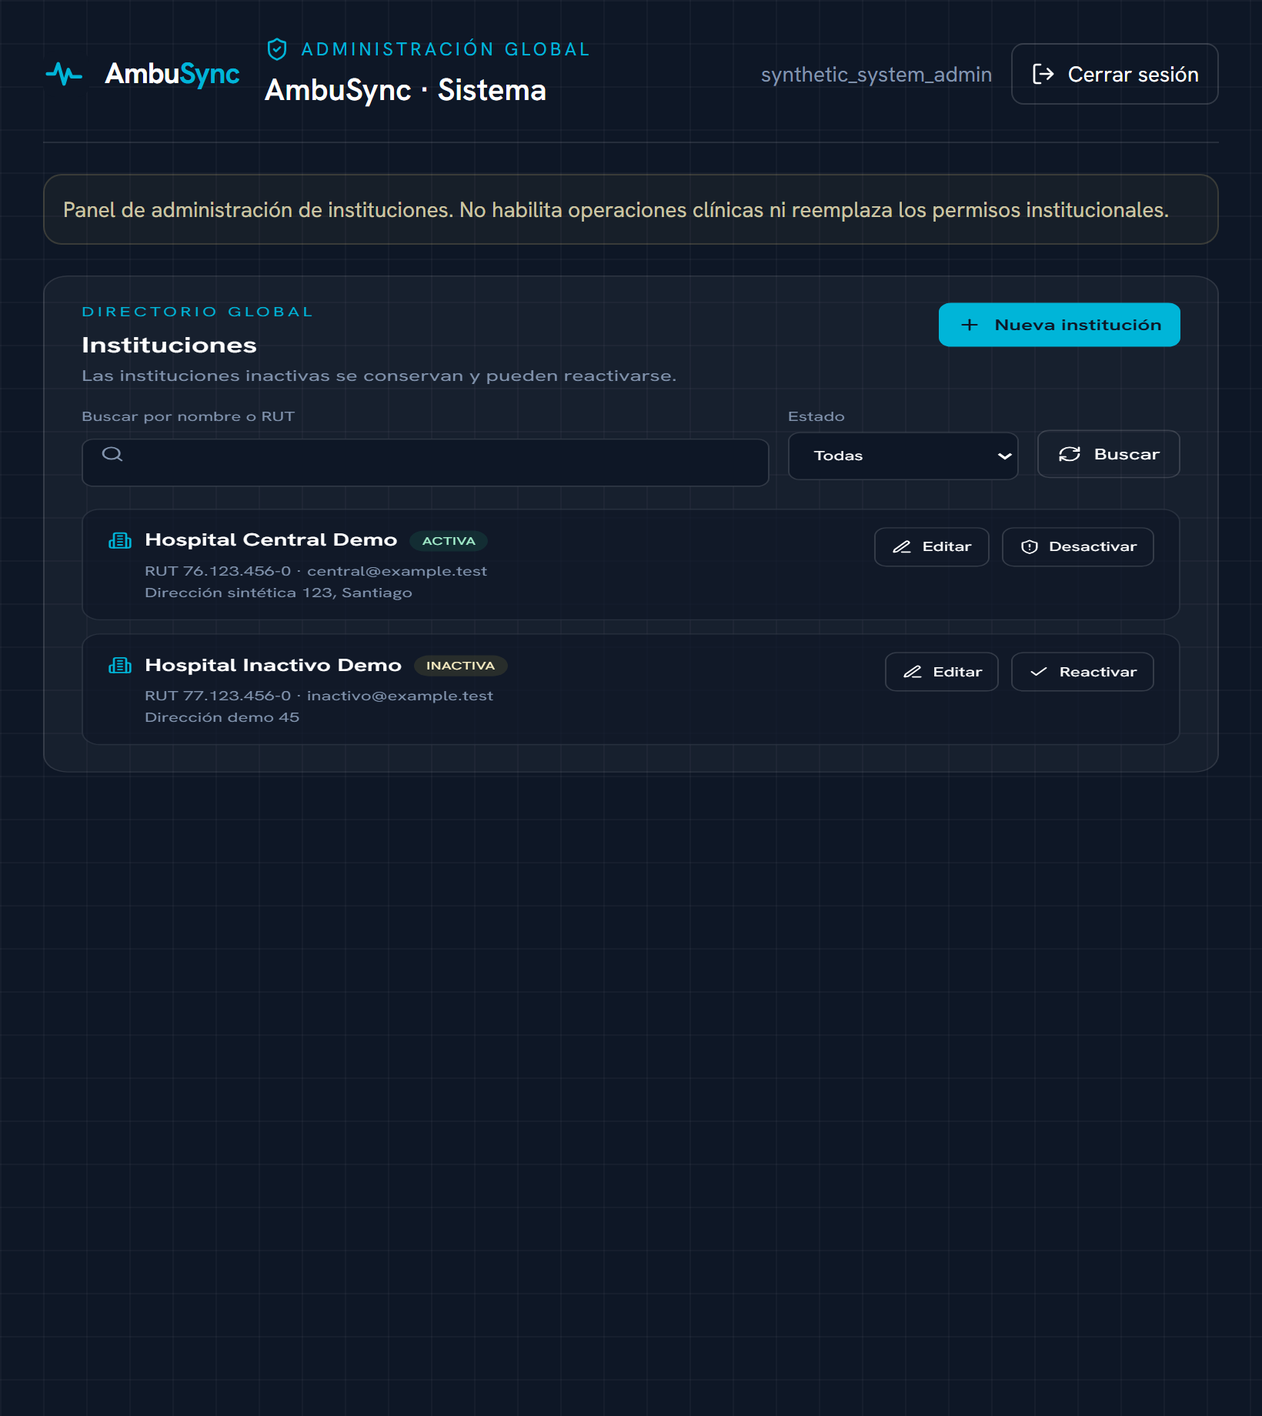
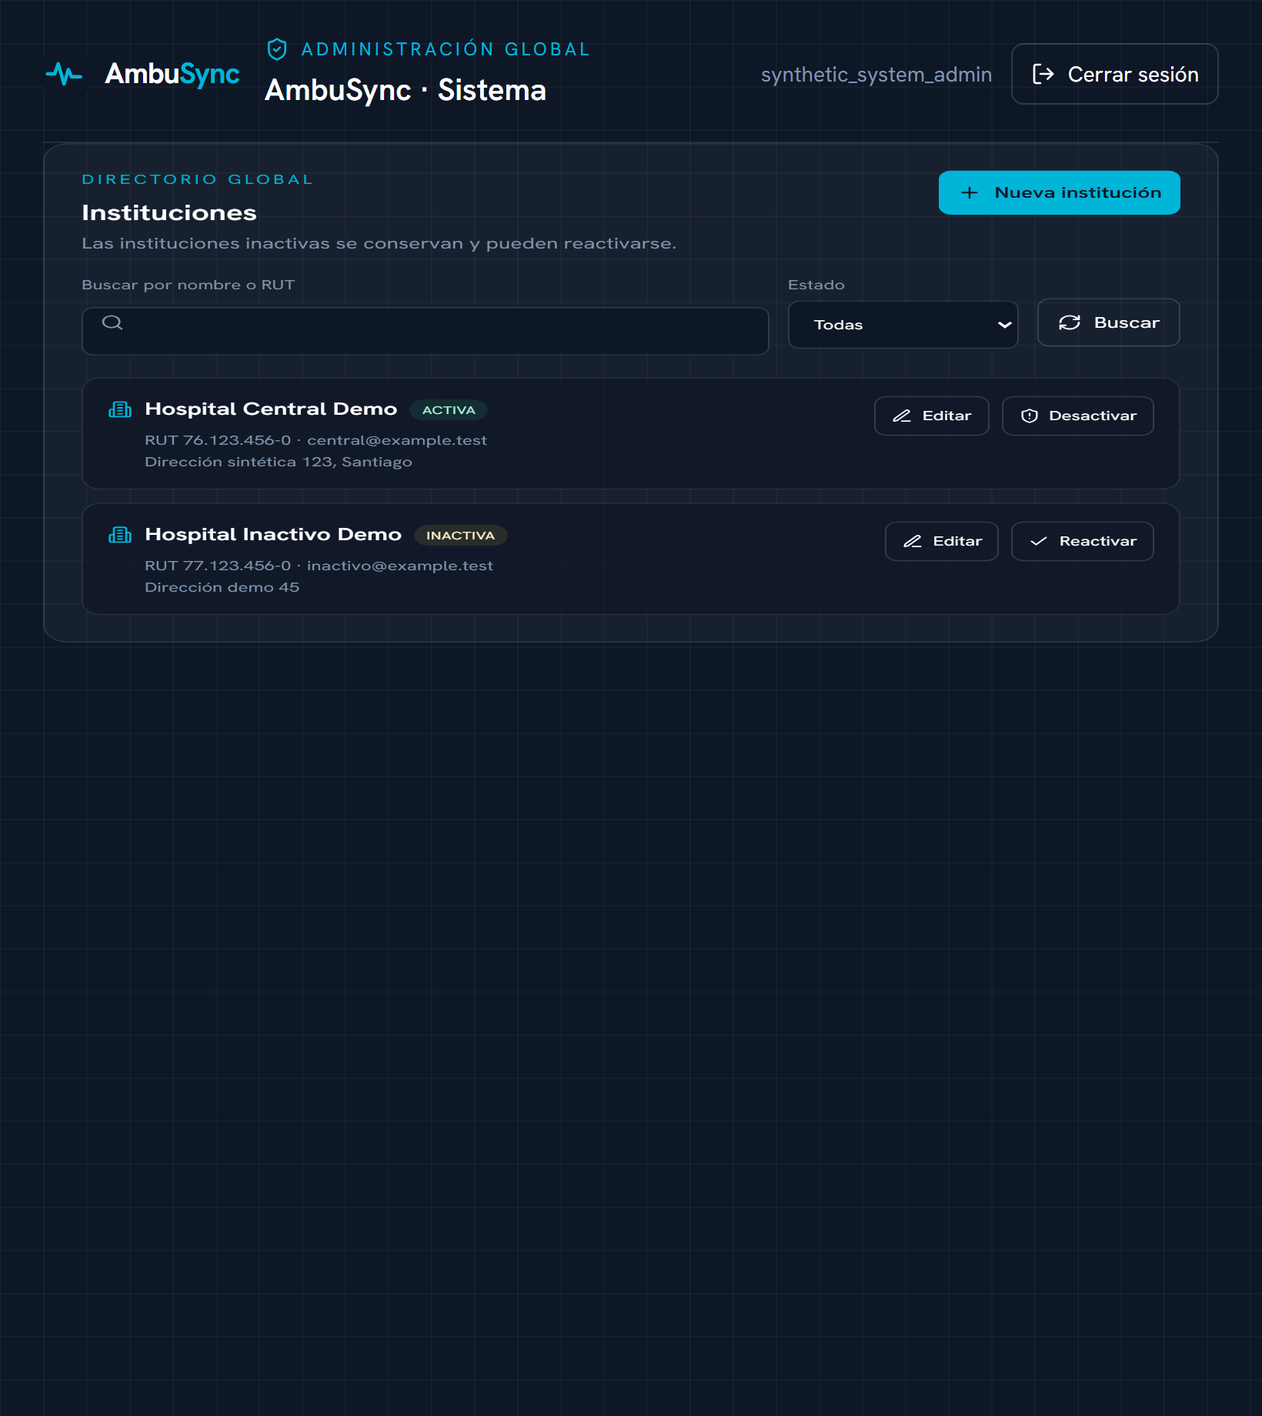
fix: scope new institutions to their own units

diff --git a/frontend/src/screens/system/SystemAdminPortal.tsx b/frontend/src/screens/system/SystemAdminPortal.tsx
@@ -67,9 +67,6 @@ export function SystemAdminPortal() {
             </button>
           </div>
         </header>
-        <p className="my-5 rounded-xl border border-amber-200/15 bg-amber-200/[0.04] p-3 text-sm text-amber-100/80">
-          Panel de administración de instituciones. No habilita operaciones clínicas ni reemplaza los permisos institucionales.
-        </p>
         {error ? <p role="alert" className="mb-5 rounded-lg border border-rose-300/20 bg-rose-300/10 p-3 text-sm text-rose-100">{error}</p> : null}
         {!error ? <SystemInstitutionsPanel /> : null}
       </div>

diff --git a/backend/institutions/tests_system_management.py b/backend/institutions/tests_system_management.py
@@ -12,7 +12,7 @@ from rest_framework.test import APIClient
 from accounts.models import AccountActivation, User
 from audit.models import AuditEvent
 from emergencies.models import Emergency
-from institutions.models import Ambulance, Institution, InstitutionMembership
+from institutions.models import Ambulance, AmbulanceAssignment, Institution, InstitutionMembership
 from institutions.rut import format_company_rut, normalize_company_rut
 
 
@@ -57,7 +57,7 @@ class SystemInstitutionManagementTests(TestCase):
         self.assertEqual(response.status_code, 201, response.content)
         institution = Institution.objects.get(rut=self.institution_payload()["rut"])
         user = User.objects.get(username="synthetic-first-urgencias")
-        self.assertEqual(institution.kind, Institution.Kind.RECEIVER)
+        self.assertEqual(institution.kind, Institution.Kind.COMBINED)
         self.assertTrue(institution.enabled)
         self.assertFalse(user.is_active)
         self.assertFalse(user.has_usable_password())
@@ -116,6 +116,14 @@ class SystemInstitutionManagementTests(TestCase):
             )
             self.assertEqual(response.status_code, 400, invalid)
             self.assertFalse(Institution.objects.exists(), invalid)
+
+        invalid_rut = self.client.post(
+            "/api/v1/system/institutions/",
+            self.institution_payload(rut="76.125.185-9"),
+            format="json",
+        )
+        self.assertEqual(invalid_rut.status_code, 400)
+        self.assertEqual(invalid_rut.json()["fields"]["rut"], "El RUT está equivocado.")
 
         created = self.client.post(
             "/api/v1/system/institutions/", self.institution_payload(), format="json"
@@ -340,3 +348,78 @@ class SystemInstitutionManagementTests(TestCase):
         current = login_client.get("/api/v1/auth/me/").json()
         self.assertEqual(set(current["groups"]), {"urgencias", "institution_admin"})
         self.assertEqual(current["institutions"][0]["name"], "Hospital Nuevo Demo")
+
+    def test_new_combined_institution_sees_and_manages_only_its_own_units(self):
+        response = self.client.post(
+            "/api/v1/system/institutions/", self.institution_payload(), format="json"
+        )
+        self.assertEqual(response.status_code, 201, response.content)
+        institution = Institution.objects.get(pk=response.json()["id"])
+        admin = User.objects.get(username="synthetic-first-urgencias")
+        admin.is_active = True
+        admin.save(update_fields=["is_active"])
+        own_unit = Ambulance.objects.create(institution=institution, code="OWN-01")
+        other_institution = Institution.objects.create(
+            name="Otra Institución Operadora Demo", kind=Institution.Kind.COMBINED
+        )
+        other_unit = Ambulance.objects.create(institution=other_institution, code="OTHER-01")
+
+        admin_client = APIClient()
+        admin_client.force_authenticate(admin)
+        config = admin_client.get("/api/v1/institutions/management/config/").json()
+        listed_units = admin_client.get("/api/v1/institutions/management/ambulances/").json()
+
+        self.assertEqual(
+            config["operator_institutions"], [{"id": str(institution.pk), "name": institution.name}]
+        )
+        self.assertEqual([unit["id"] for unit in listed_units], [str(own_unit.pk)])
+        self.assertNotIn(str(other_unit.pk), {unit["id"] for unit in listed_units})
+
+        own_created = admin_client.post(
+            "/api/v1/institutions/management/ambulances/create/",
+            {"institution_id": str(institution.pk), "code": "OWN-02"},
+            format="json",
+        )
+        foreign_create = admin_client.post(
+            "/api/v1/institutions/management/ambulances/create/",
+            {"institution_id": str(other_institution.pk), "code": "OTHER-02"},
+            format="json",
+        )
+        self.assertEqual(own_created.status_code, 201, own_created.content)
+        self.assertEqual(foreign_create.status_code, 400)
+        self.assertFalse(
+            Ambulance.objects.filter(institution=other_institution, code="OTHER-02").exists()
+        )
+
+        foreign_account_create = admin_client.post(
+            "/api/v1/institutions/management/accounts/",
+            {
+                "username": "synthetic-foreign-ambulance",
+                "email": "foreign-ambulance@example.test",
+                "groups": ["ambulance"],
+                "institution_id": str(other_institution.pk),
+                "ambulance_id": str(other_unit.pk),
+            },
+            format="json",
+        )
+        self.assertEqual(foreign_account_create.status_code, 400)
+        self.assertFalse(User.objects.filter(username="synthetic-foreign-ambulance").exists())
+
+        ambulance_user = User.objects.create_user(
+            username="synthetic-owned-ambulance", password="Synthetic-Owned-Ambulance-26!"
+        )
+        ambulance_group, _ = Group.objects.get_or_create(name="ambulance")
+        ambulance_user.groups.add(ambulance_group)
+        InstitutionMembership.objects.create(user=ambulance_user, institution=institution)
+        AmbulanceAssignment.objects.create(user=ambulance_user, ambulance=own_unit)
+        foreign_reassignment = admin_client.post(
+            f"/api/v1/institutions/management/accounts/{ambulance_user.pk}/assignment/",
+            {"ambulance_id": str(other_unit.pk)},
+            format="json",
+        )
+        self.assertEqual(foreign_reassignment.status_code, 400)
+        self.assertTrue(
+            AmbulanceAssignment.objects.filter(
+                user=ambulance_user, ambulance=own_unit, active=True
+            ).exists()
+        )

diff --git a/backend/institutions/account_management.py b/backend/institutions/account_management.py
@@ -93,6 +93,8 @@ class ManagedAmbulanceListView(APIView):
             .select_related("institution")
             .order_by("institution__name", "code")
         )
+        if institution.kind == Institution.Kind.COMBINED:
+            ambulances = ambulances.filter(institution=institution)
         return Response(
             [
                 {
@@ -122,12 +124,15 @@ class AccountManagementConfigView(APIView):
         delegable_groups = ["urgencias", "ambulance"] if can_create_accounts else []
         operator_institutions = []
         if can_create_accounts:
+            operators = Institution.objects.filter(
+                enabled=True,
+                kind__in=(Institution.Kind.OPERATOR, Institution.Kind.COMBINED),
+            )
+            if institution.kind == Institution.Kind.COMBINED:
+                operators = operators.filter(pk=institution.pk)
             operator_institutions = [
                 {"id": str(operator.pk), "name": operator.name}
-                for operator in Institution.objects.filter(
-                    enabled=True,
-                    kind__in=(Institution.Kind.OPERATOR, Institution.Kind.COMBINED),
-                ).order_by("name", "id")
+                for operator in operators.order_by("name", "id")
             ]
         return Response(
             {
@@ -236,6 +241,13 @@ class ManagedAccountListCreateView(APIView):
             if target_institution is None:
                 raise ValidationError(
                     {"institution_id": "La institución operadora no está habilitada."}
+                )
+            if (
+                institution.kind == Institution.Kind.COMBINED
+                and target_institution.pk != institution.pk
+            ):
+                raise ValidationError(
+                    {"institution_id": "Solo puedes crear unidades para tu propia institución."}
                 )
         elif body.get("institution_id"):
             raise ValidationError(
@@ -459,6 +471,13 @@ class ManagedAmbulanceCreateView(APIView):
             raise ValidationError(
                 {"institution_id": "Selecciona una institución operadora habilitada."}
             )
+        if (
+            institution.kind == Institution.Kind.COMBINED
+            and target_institution.pk != institution.pk
+        ):
+            raise ValidationError(
+                {"institution_id": "Solo puedes crear unidades para tu propia institución."}
+            )
         code = request.data.get("code") if isinstance(request.data, dict) else None
         if not isinstance(code, str) or not code.strip() or len(code.strip()) > 40:
             raise ValidationError({"code": "Indica un código de unidad válido."})
@@ -508,6 +527,12 @@ class ManagedAccountAssignmentView(APIView):
             institution__enabled=True,
             enabled=True,
         ).first()
+        if (
+            institution.kind == Institution.Kind.COMBINED
+            and ambulance is not None
+            and ambulance.institution_id != institution.pk
+        ):
+            ambulance = None
         if ambulance is None:
             raise ValidationError(
                 {"ambulance_id": "La unidad no pertenece a tu institución o no está habilitada."}

diff --git a/backend/institutions/system_management.py b/backend/institutions/system_management.py
@@ -71,7 +71,7 @@ def validate_institution_fields(data, *, creating=False):
     if creating or "rut" in data:
         rut_result = normalize_company_rut(raw_rut) if isinstance(raw_rut, str) else None
         if rut_result is None:
-            errors["rut"] = "Indica un RUT empresa válido entre 76.000.000 y 79.999.999."
+            errors["rut"] = "El RUT está equivocado."
         else:
             values["rut_normalized"], values["rut"] = rut_result
 
@@ -206,7 +206,7 @@ class SystemInstitutionListCreateView(APIView):
             with transaction.atomic():
                 institution = Institution.objects.create(
                     name=values["name"],
-                    kind=Institution.Kind.RECEIVER,
+                    kind=Institution.Kind.COMBINED,
                     rut=values["rut"],
                     address=values["address"],
                     phone=values["phone"],

diff --git a/docs/ETAPA_1.md b/docs/ETAPA_1.md
@@ -14,11 +14,11 @@ Construir el flujo vertical local del piloto usando **Hospital Operador Demo**, 
 | 2. Contratos | Contrato HTTP del primer slice en `backend/openapi.json`, validación y permisos en DRF; D-005 a D-014 siguen siendo la autoridad funcional. | La PR #5 está integrada en `main`. La suite llegó a 59 pruebas backend (1 omitida) en la última ejecución local registrada; incluye autenticación, emergencias, aislamiento, auditoría e idempotencia/concurrencia. Los contratos de operaciones futuras continúan pendientes. |
 | 3. Alcance | Implementados localmente sesión, permisos, auditoría, emergencias, vistas de ambulancia y Urgencias, y administración de cuentas/unidades. La administración de Urgencias tiene subpaneles para crear cuentas, consultar historial y crear unidades; permite asignar o cambiar unidad a cuentas de ambulancia. | Migraciones y pruebas usan PostgreSQL aislado. No es despliegue ni release. WebSocket, GPS, cambio de destino, recuperación de cuenta, informes y otros flujos aprobados siguen pendientes. |
 | 4. Entorno | Python 3.14.10 instalado. PostgreSQL 18.6 responde en clúster separado `127.0.0.1:55432`; base/rol `ambusync_dev`, secretos aleatorios en `backend/.env` ignorado por Git. Docker no está instalado. | Versión actualizada y migraciones/pruebas comprobadas. Reproducir arranque con las rutas documentadas; no usar el servicio preexistente en `5432`. |
-| 5. Administración global | D-015: rol `system_admin` exclusivo, sin membresía institucional ni permisos clínicos; comando local para aprovisionarlo. El panel crea Receptoras y la primera cuenta Urgencias con administración institucional. | Lista instituciones, edita datos, conserva bajas lógicas y permite reactivar. Desactivación bloquea login y revoca sesiones; se impide si la institución está vinculada como origen/destino a episodios no terminales. Pruebas sintéticas en curso. |
+| 5. Administración global | D-015: rol `system_admin` exclusivo, sin membresía institucional ni permisos clínicos; comando local para aprovisionarlo. El panel crea instituciones Operadora y Receptora (`combined`) y la primera cuenta Urgencias con administración institucional. | Lista instituciones, edita datos, conserva bajas lógicas y permite reactivar. Desactivación bloquea login y revoca sesiones; se impide si la institución está vinculada como origen/destino a episodios no terminales. La institución combinada queda como operadora de sí misma y su administración ve/crea solo sus propias unidades. |
 
 El primer slice y las ampliaciones administrativas descritas sí están implementados localmente; la etapa 1 continúa abierta. Las pruebas frontend y backend se ejecutan localmente y también están configuradas en CI; un resultado local no sustituye la verificación de cada ejecución remota. No se desplegó servicio de aplicación. La base local contiene cuentas y datos sintéticos; no borrar sus datos automáticamente.
 
-La administración global está separada de `/local`: el inicio de sesión lleva `system_admin` exclusivamente a `/sistema`. El alta institucional fija tipo Receptora, valida RUT empresa chileno (76.000.000–79.999.999, dígito módulo 11), nombre, dirección, teléfono opcional y correo único. En la misma transacción crea la cuenta pendiente de Urgencias, grupos `urgencias` + `institution_admin`, membresía y activación de 24 horas por correo local. Un fallo de entrega revierte toda la creación. `system_admin` se crea con `create_system_admin <usuario> <correo>`; no se utiliza Django `is_staff`/`is_superuser` ni hay registro web.
+La administración global está separada de `/local`: el inicio de sesión lleva `system_admin` exclusivamente a `/sistema`. El alta institucional crea tipo Operadora y Receptora (`combined`), valida RUT empresa chileno (76.000.000–79.999.999, dígito módulo 11), nombre, dirección, teléfono opcional y correo único. La institución queda automáticamente como su propia operadora; su administración Urgencias crea y ve unidades únicamente dentro de ella, no las de otros hospitales. En la misma transacción se crea la cuenta pendiente de Urgencias, grupos `urgencias` + `institution_admin`, membresía y activación de 24 horas por correo local. Un fallo de entrega revierte toda la creación. `system_admin` se crea con `create_system_admin <usuario> <correo>`; no se utiliza Django `is_staff`/`is_superuser` ni hay registro web.
 
 ## Stack bajo evaluación local
 
@@ -122,7 +122,7 @@ El desarrollo usa SMTP local de Mailpit en `127.0.0.1:1025` (configurable con `E
   ```
 
 - El login la dirige a `/sistema`. La API global vive bajo `/api/v1/system/institutions/`; sus endpoints exigen sesión, CSRF en mutaciones y rol global exclusivo. El listado incluye activas/inactivas y permite filtrar por estado/buscar por nombre o RUT.
-- El alta crea solo una institución Receptora y su primera cuenta de Urgencias con `institution_admin`. El correo institucional de contacto y el de activación son campos independientes, pueden coincidir y el correo institucional debe ser único. La cuenta queda pendiente hasta que defina contraseña desde su enlace de activación local de 24 horas. Institución, cuenta, grupos, membresía, activación y auditoría se crean en transacción; si falla SMTP, se revierte todo.
+- El alta crea una institución Operadora y Receptora (`combined`) y su primera cuenta de Urgencias con `institution_admin`. La institución es automáticamente su propia operadora: solo se listan, crean y asignan sus unidades en el panel; las instituciones combinadas no acceden a unidades de otras instituciones. El correo institucional de contacto y el de activación son campos independientes, pueden coincidir y el correo institucional debe ser único. La cuenta queda pendiente hasta que defina contraseña desde su enlace de activación local de 24 horas. Institución, cuenta, grupos, membresía, activación y auditoría se crean en transacción; si falla SMTP, se revierte todo.
 - RUT se presenta como `NN.NNN.NNN-D`, base entre 76.000.000 y 79.999.999 y dígito verificador módulo 11; la interfaz admite escribir la base de 8 dígitos y completa el verificador calculado tanto al crear como al editar, o avisa si el verificador ingresado no coincide. La API exige el formato completo, normaliza y evita duplicados. Nombre admite letras Unicode, números, espacios y guion (160); dirección 255; teléfono opcional 15 caracteres (`0-9`, `+`, espacios, paréntesis y guion); correo de formato válido, dominio libre y único.
 - La edición modifica nombre, RUT, dirección, teléfono o correo por campo; tipo y estado no se cambian en edición. La desactivación conserva institución, membresías, cuentas, unidades e historial, revoca sesiones y bloquea el login de miembros mientras la institución esté deshabilitada. Se rechaza si hay episodios no terminales en que figure como institución operadora o destino. Reactivar vuelve a permitir el login de cuentas que sigan activas; las sesiones anteriores no reviven.
 - Cada alta, edición, baja y reactivación registra evento de auditoría. El rol global no lista ni opera emergencias, no administra cuentas institucionales ya existentes fuera de la cuenta inicial y no adquiere permisos clínicos.

diff --git a/docs/ETAPA_0.md b/docs/ETAPA_0.md
@@ -26,7 +26,7 @@ Referencia: [diagnóstico del prototipo](ANALISIS_INICIAL.md) e Informe 2 aporta
 | D-012 | Tratamiento del formulario no enviado al vencer sesión aprobado el 29/10/2026 | Conservar solo en memoria para la misma cuenta; al reautenticar, comprobar identidad y permisos; no enviar automáticamente; descartar si cambia la cuenta; implementación/pruebas pendientes |
 | D-013 | Verificación administrativa de identidad para recuperar acceso al correo aprobada el 29/10/2026 | Contacto institucional previo registrado; anotar verificador, método, fecha y resultado; sin preguntas secretas ni cambio a correo no verificado; implementación/pruebas pendientes |
 | D-014 | Cambio de destino después de iniciado el traslado aprobado el 29/10/2026 | Operación atómica: cancelar episodio anterior y detener GPS; crear reemplazo con ID/contexto autorizado nuevos y seguimiento nuevo; conservar historial y no heredar acceso entre receptores; contratos exactos/pruebas pendientes |
-| D-015 | Administración global de instituciones aprobada el 10/11/2026 | Rol `system_admin` exclusivo, provisionado localmente, sin permisos clínicos ni membresía; gestiona instituciones Receptoras con baja lógica, auditoría y activación local de su primer administrador de Urgencias |
+| D-015 | Administración global de instituciones aprobada el 10/11/2026; alcance operativo ampliado el 10/11/2026 | Rol `system_admin` exclusivo, provisionado localmente, sin permisos clínicos ni membresía; crea instituciones Operadora y Receptora (`combined`) con su primer administrador de Urgencias; administra bajas lógicas y auditoría |
 
 D-002 modifica el diseño de cuentas por unidad del Informe 2. D-003 exige adaptar el campo de rol único del diccionario: proponer conjuntos de permisos/grupos, sin un booleano que conceda acceso total. Mantener trazabilidad de estas diferencias al actualizar el informe.
 
@@ -136,7 +136,7 @@ Esta es una condición de aceptación futura, no un resultado alcanzado. Los 20 
 ### Responsabilidades y permisos adicionales
 
 - **Administración institucional:** gestiona y desactiva cuentas/ambulancias propias, asigna y retira personal, restablece acceso por procedimiento controlado y consulta auditoría administrativa. No administra otras instituciones, no modifica episodios ni confirma llegadas/cierres sin el permiso funcional correspondiente.
-- **Administración global (`system_admin`):** rol exclusivo de los creadores, sin membresía institucional ni grupos operativos. Lista todas las instituciones, administra datos y estado, y crea Receptoras junto con su primer administrador de Urgencias. No consulta ni modifica episodios, cuentas institucionales ni datos clínicos. El rol se crea localmente por comando y no mediante registro web ni privilegio Django de superusuario.
+- **Administración global (`system_admin`):** rol exclusivo de los creadores, sin membresía institucional ni grupos operativos. Lista todas las instituciones, administra datos y estado, y crea instituciones Operadora y Receptora (`combined`) junto con su primer administrador de Urgencias. Cada nueva institución combinada opera sus propias unidades; su panel solo expone unidades de esa misma institución. No consulta ni modifica episodios, cuentas institucionales ni datos clínicos. El rol se crea localmente por comando y no mediante registro web ni privilegio Django de superusuario.
 - **Ambulancia:** crea episodios para su unidad asignada, actualiza antecedentes y agrega mediciones durante el traslado, registra posición/inicio y cancela antes de recepción con motivo. No suplanta unidades, no cambia directamente destino tras envío y no edita episodios cerrados/cancelados.
 - **Urgencias:** consulta antecedentes, mediciones y posición de episodios del destino; registra lectura, preparación, llegada y cierre. No sobrescribe mediciones del emisor ni cancela unilateralmente. Ante errores solicita corrección al operador; el procedimiento de contingencia se documentará en AS-003/AS-005.
 - **Informes:** permiso adicional al de urgencias para consultar histórico, filtros y resúmenes del destino autorizado.

diff --git a/README.md b/README.md
@@ -76,7 +76,8 @@ permite registrar la llegada desde la tarjeta y conserva un archivo filtrable.
 ### 4. Administración global de instituciones
 
 El rol global exclusivo de administración lista instituciones activas e inactivas, permite editar
-sus datos y conservarlas mediante baja lógica. El alta crea una institución Receptora y una primera
+sus datos y conservarlas mediante baja lógica. El alta crea una institución Operadora y Receptora
+que administra sus propias unidades, junto con una primera
 cuenta de Urgencias con administración institucional, pendiente de activar por correo local.
 
 <p align="center">
